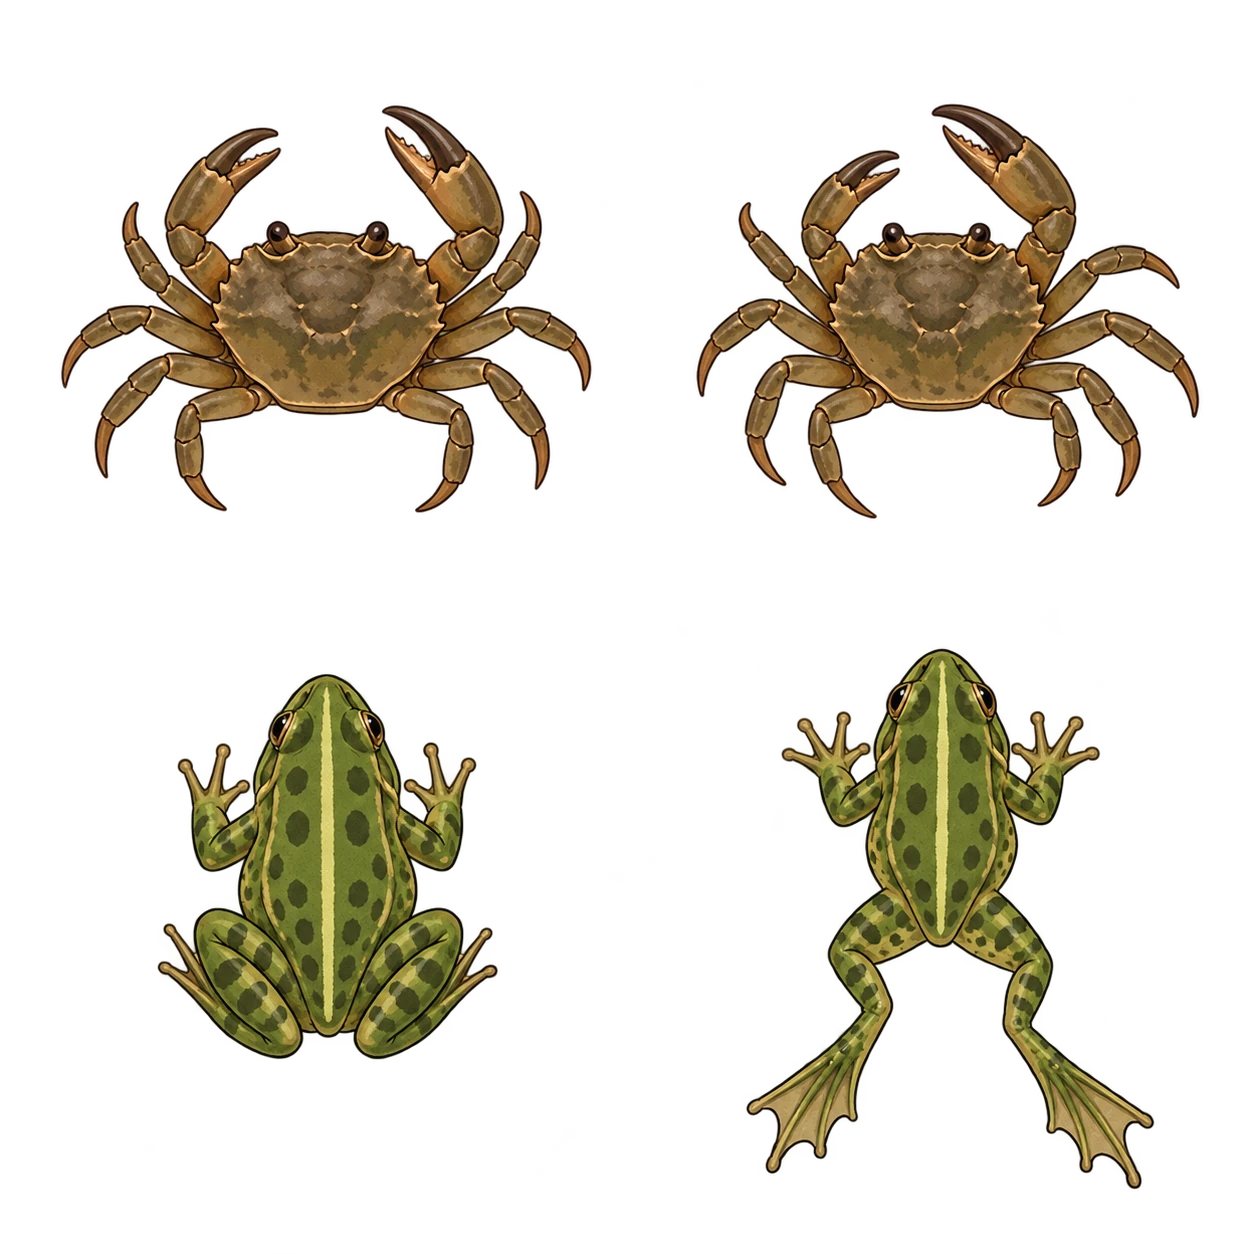
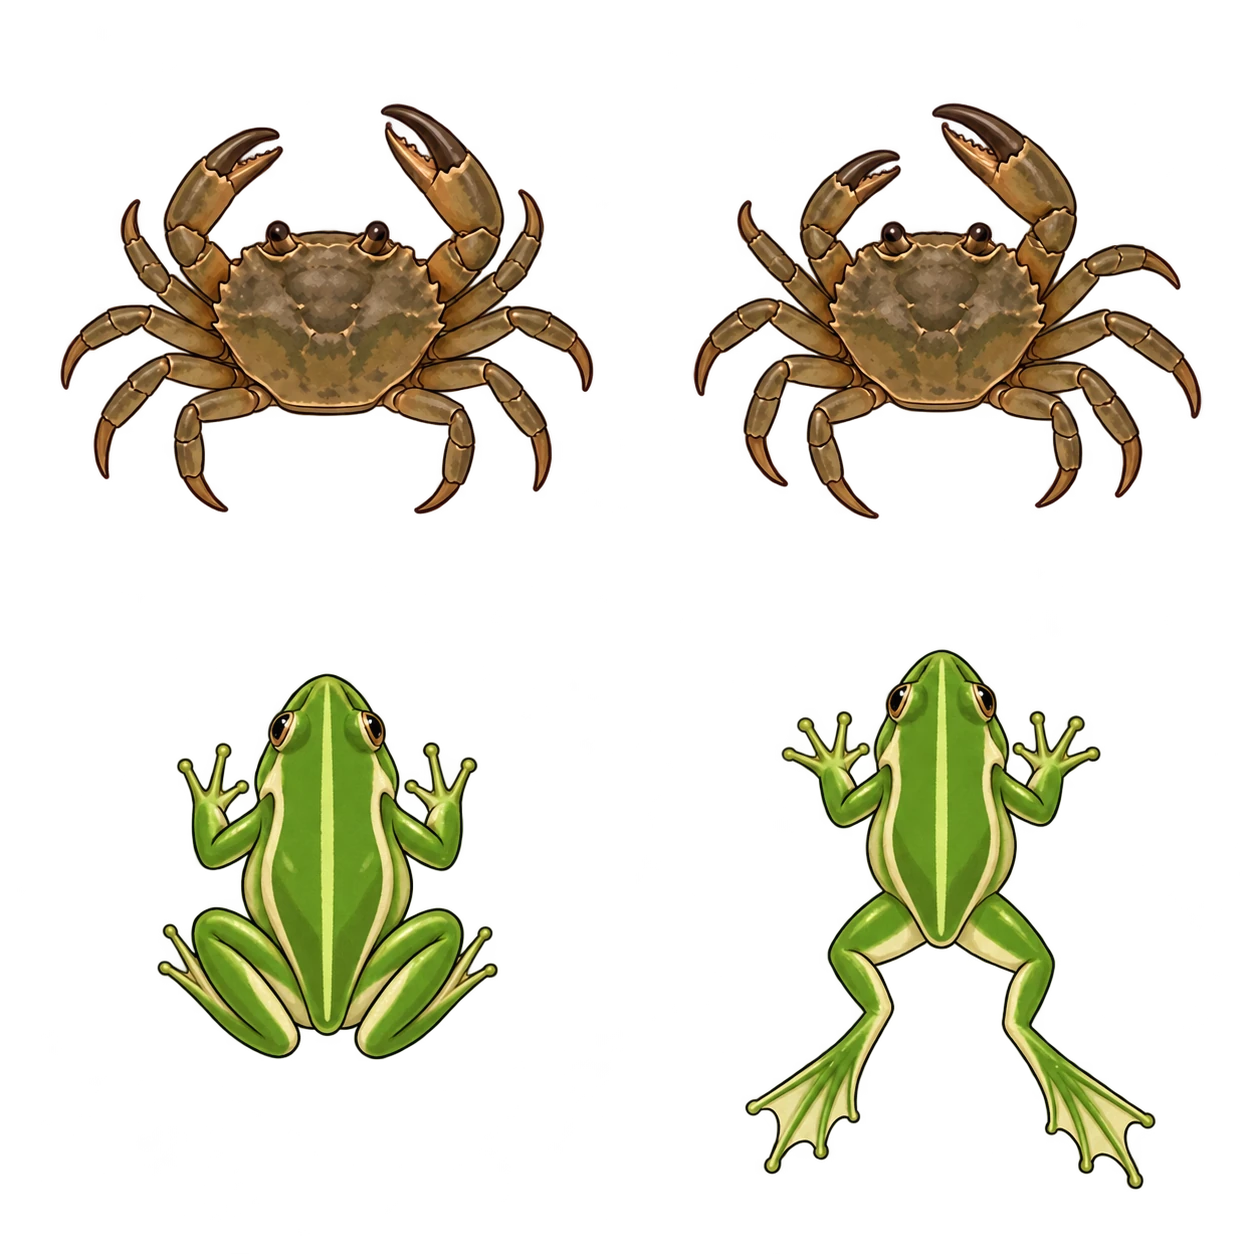
feat: 丰富卡通鱼种与青蛙外观

diff --git a/src/main.js b/src/main.js
@@ -5,7 +5,7 @@ import { WeatherState, LotusGrowth } from './weather.js';
 import { WeatherEffects, LotusVisuals } from './weather-effects.js';
 import { setupWeatherUI } from './weather-ui.js';
 import { ShoreLife } from './shore-life.js';
-import { STATIC_PADS, isWater } from './pond-surface.js';
+import { STATIC_PADS, ROCKS, isWater } from './pond-surface.js';
 import { PondClimate } from './pond-climate.js';
 import { PondLife } from './pond-life.js';
 import { FrameBudget } from './frame-budget.js';
@@ -25,7 +25,7 @@ let paused=false,ready=false,frames=0,lastClick=null,sky=null,skyKey="",skyCheck
 const params=new URLSearchParams(location.search);
 await app.init({resizeTo:window,preference:'webgl',antialias:true,resolution:renderResolution(),autoDensity:true,background:0x263f38,powerPreference:'high-performance'});
 host.appendChild(app.canvas);
-app.canvas.setAttribute('aria-label','水光粼粼的池塘，44 条锦鲤自由游动。点击水面投下涟漪，吸引附近的鱼');
+app.canvas.setAttribute('aria-label','水光粼粼的池塘，44 条鱼儿自由游动。点击水面投下涟漪，吸引附近的鱼');
 app.canvas.tabIndex=0;
 const [initialStyle,moonTexture]=await Promise.all([loadSceneStyle(savedSceneStyle()),Assets.load('/assets/moon-reference.png')]);
 const bottom=initialStyle.bottom;
@@ -52,10 +52,11 @@ const visuals=sim.fish.map(f=>{
  mesh.alpha=.87+f.depth*.1;mesh.tint=0xdfebd6;shadow.tint=0x183d35;shadow.alpha=.15;
  shadows.addChild(shadow);fishes.addChild(mesh);return {mesh,shadow};
 });
-// Surface leaves occlude submerged fish; full-texture masks retain the original painterly edges.
+// Surface leaves and rocks occlude submerged fish while retaining the background edges.
 const pads=new Sprite(bottom);pads.width=WORLD.width;pads.height=WORLD.height;
 const padMask=new Graphics();
 for(const [x,y,rx,ry] of STATIC_PADS)padMask.ellipse(x,y,rx,ry).fill(0xffffff);
+for(const [x,y,rx,ry] of ROCKS)padMask.ellipse(x,y,rx,ry).fill(0xffffff);
 world.addChild(pads,padMask);pads.mask=padMask;
 const lotus=new LotusVisuals(world,initialStyle.lotus,growth);
 const water=createWaterFilter(climate.texture,moonTexture);world.filters=[water];world.filterArea=new Rectangle(0,0,WORLD.width,WORLD.height);
@@ -72,6 +73,9 @@ function applySceneStyle(style){
  for(let i=0;i<visuals.length;i++){
    const {mesh,shadow}=visuals[i];mesh.texture=shadow.texture=style.fishTextures[sim.fish[i].variant];
    mesh.tint=style.key==='cartoon'?0xffffff:0xe4ede0;
+   const length=sim.fish[i].length*(style.key==='cartoon'?1.35:1);
+   mesh.data.width=shadow.data.width=length;mesh.data.height=shadow.data.height=length*mesh.texture.height/mesh.texture.width;
+   mesh.data.tailStrength=style.key==='cartoon'?.7:1;
  }
  shore.setStyle(style.shore,style.winter,style.layout);
  lotus.setStyle(style.lotus);life.setStyle(style.life);
@@ -114,7 +118,7 @@ function fit(){
  // Pixi applies the container transform to filterArea: keep it in local units.
  world.filterArea=new Rectangle(0,0,WORLD.width,WORLD.height);
  app.canvas.style.cursor=canPan?'grab':'default';
- app.canvas.setAttribute('aria-label',canPan?'水光粼粼的池塘，拖动或使用方向键查看全景，轻点水面吸引鱼群':'水光粼粼的池塘，44 条锦鲤自由游动。点击水面投下涟漪，吸引附近的鱼');
+ app.canvas.setAttribute('aria-label',canPan?'水光粼粼的池塘，拖动或使用方向键查看全景，轻点水面吸引鱼群':'水光粼粼的池塘，44 条鱼儿自由游动。点击水面投下涟漪，吸引附近的鱼');
  document.querySelector('#hint span').textContent=canPan?'拖动浏览，轻点水面互动':'轻点水面，等鱼儿游来';
  app.renderer.resolution=renderResolution();app.renderer.resize(innerWidth,innerHeight);
 }
@@ -123,7 +127,7 @@ function deform(mesh,f) {
  const {width,height}=mesh.data,v=mesh.vertices;
  const activity=f.motionState==='rest'?.12:Math.min(1,.35+f.speed/60),finPhase=Math.sin(f.tailPhase*.66);
  for(let x=0;x<=COLS;x++){
-   const u=x/COLS,bend=Math.sin(f.tailPhase+u*5.3)*tailWeights[x]*width*.095*activity;
+   const u=x/COLS,bend=Math.sin(f.tailPhase+u*5.3)*tailWeights[x]*width*.095*activity*(mesh.data.tailStrength||1);
    const steer=-f.turn*turnWeights[x]*width*.021,fins=finPhase*finWeights[x]*.018;
    for(let y=0;y<=ROWS;y++){const k=(y*(COLS+1)+x)*2;v[k]=(u-.5)*width;v[k+1]=(y/ROWS-.5)*height*(1+fins)+bend+steer;}
  }

diff --git a/src/scene-style.js b/src/scene-style.js
@@ -4,7 +4,7 @@ const STORAGE_KEY = 'pond-scene-style';
 const FISH_FRAMES = [[13,18,743,324],[789,19,732,325],[13,355,740,315],[785,358,735,315],[14,684,742,321],[788,687,733,320]];
 const PROFILES = {
   cartoon: {
-    label: '卡通', bottom: '/assets/pond-cartoon.webp', fish: '/assets/koi-cartoon.webp',
+    label: '卡通', bottom: '/assets/pond-cartoon.webp', fish: '/assets/fish-cartoon.webp',
     shore: '/assets/shore-cartoon.webp', winter: '/assets/shore-cartoon-winter.webp',
     lotus: '/assets/lotus-cartoon.webp', life: '/assets/pond-life-cartoon.webp',
     layout: {
@@ -16,7 +16,7 @@ const PROFILES = {
   natural: {
     label: '自然写实', bottom: '/assets/pond-natural.webp', fish: '/assets/koi-atlas.png',
     shore: '/assets/shore-life.png', winter: '/assets/shore-winter.png', layout: {},
-    lotus: '/assets/lotus-growth.png', life: '/assets/pond-life.png',
+    lotus: '/assets/lotus-growth.png', life: '/assets/pond-life-natural.webp',
   },
 };
 const cache = new Map();
@@ -36,7 +36,7 @@ export function loadSceneStyle(key) {
     const pending = Promise.all([profile.bottom,profile.fish,profile.shore,profile.winter,profile.lotus,profile.life].map(url => Assets.load({src:url,data:{autoGenerateMipmaps:true,minFilter:'linear',mipmapFilter:'linear'}})))
       .then(([bottom,atlas,shore,winter,lotus,life]) => ({
         key, bottom, shore, winter, lotus, life, layout: profile.layout,
-        fishTextures: FISH_FRAMES.map(([x,y,width,height]) => new Texture({
+        fishTextures: (key==='cartoon'?Array.from({length:6},(_,i)=>[i%2*768,Math.floor(i/2)*1024/3,768,1024/3]):FISH_FRAMES).map(([x,y,width,height]) => new Texture({
           source: atlas.source,
           frame: new Rectangle(x*atlas.width/1536,y*atlas.height/1024,width*atlas.width/1536,height*atlas.height/1024),
         })),

diff --git a/src/pond-life.js b/src/pond-life.js
@@ -30,7 +30,7 @@ export class PondLife {
       const perch=STATIC_PADS[[9,10,12][id]],group=new Container();this.frogLayer.addChild(group);
       const shadow=new Graphics().ellipse(0,2,9,4).fill({color:0x163829,alpha:.18});this.frogLayer.addChildAt(shadow,0);
       const poses=[new Sprite(this.textures[2]),new Sprite(this.textures[3])];
-      for(const sprite of poses){sprite.anchor.set(.5);sprite.width=sprite.height=35+id*2;group.addChild(sprite);}
+      for(const sprite of poses){sprite.anchor.set(.5);sprite.width=sprite.height=43+id*2;group.addChild(sprite);}
       return {id,group,shadow,poses,x:perch[0],y:perch[1],startX:perch[0],startY:perch[1],targetX:perch[0],targetY:perch[1],perch:null,heading:this.random()*TAU,state:'rest',until:3+this.random()*5,elapsed:0,duration:.5,height:0,alpha:1,phase:this.random()*TAU,landing:'leaf',jumpCount:0,waterExitCount:0,lastJumpDistance:0};
     });
     this.splashes=Array.from({length:6},()=>({x:0,y:0,born:-100}));this.splashIndex=0;
@@ -43,7 +43,7 @@ export class PondLife {
     this.textures=this.textureSets.get(atlas);
     for(const crab of this.crabs||[])crab.mesh.texture=this.textures[crab.id%2];
     for(const frog of this.frogs||[])for(let i=0;i<2;i++){
-      const sprite=frog.poses[i];sprite.texture=this.textures[2+i];sprite.width=sprite.height=35+frog.id*2;
+      const sprite=frog.poses[i];sprite.texture=this.textures[2+i];sprite.width=sprite.height=43+frog.id*2;
     }
   }
   crabTarget(crab,time) {

diff --git a/TODO.md b/TODO.md
@@ -9,3 +9,4 @@
 | 卡通与自然写实切换 | 已完成 | 2026-10-03 | `src/scene-style.js`、场景图层、风格素材与离线打包脚本 | 两套池底、鱼、岸树、荷花与小动物素材，卡通水面减少细碎光纹；新增 7 张 WebP 合计约 2.1 MB，首次切换加载并缓存，缩小时使用纹理多级采样。定向测试：1536×864 桌面及 390×844 手机尺寸下显示、切换与拖动；暂停后切换保留鱼、青蛙位置和荷花出生时间，快速切换及刷新记忆正常，手机按钮 44×44 像素，生产构建通过。未验证手机真机、低配置设备与 Edge；离线 HTML 待同步 |
 | 鱼网格批处理 | 已完成 | 2026-10-03 | `src/main.js` | 单鱼网格从 105 个顶点调整为 95 个，进入 PixiJS 默认批处理范围，保留独立尾摆和鱼鳍变形。定向测试：页面实际报告 44 条鱼均参与批处理；手机尺寸的自然写实预览互动期间 2.5 秒采样 148 帧，无超过 50 毫秒的帧。此数据只代表本机预览，未验证低配置设备 |
 | 春夏秋冬树景 | 已完成 | 2026-10-03 | `src/tree-seasons.js`、岸树和青蛙图层 | 按日期显示北半球季节，并支持手动预览；只为树叶调整春季新绿、夏季深绿和秋季金黄，冬季替换覆霜枝干。低温或结冰覆盖暖季预览，冬景隐藏青蛙及活跃昆虫。定向测试：页面切换四季、两种风格的冬树、降雪低温覆盖春季预览，青蛙及三类昆虫可见数量为零；生产构建通过。未验证跨月自动变化与真实天气接口 |
+| 卡通鱼种与光滑绿色青蛙 | 已完成 | 2026-10-03 | 风格图集、鱼网格与青蛙图层 | 卡通鱼增加金鱼、小丑鱼等六种造型，适当放大并减小尾摆幅度；两种风格使用光滑绿色青蛙，略微放大，保留跳跃和游泳状态。岸石加入鱼群前景遮挡，移除不再使用的卡通锦鲤图集。定向测试：页面切换两种风格及月夜，390×844 手机竖屏铺满、页面无溢出，44 条鱼保持批处理，青蛙继续出水起跳；手机尺寸本机预览 2.5 秒采样 148 帧，无超过 50 毫秒的帧，生产构建通过。未验证手机真机及低配置设备 |
